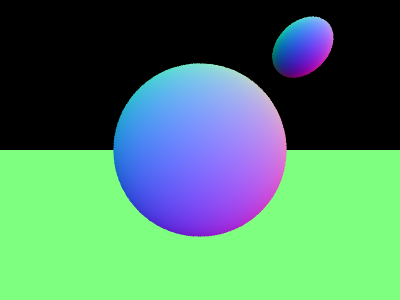
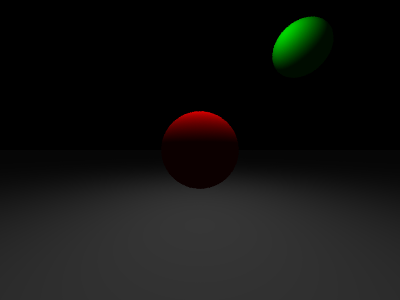
Inclusão de luz difusa

diff --git a/material.py b/material.py
@@ -1,9 +1,12 @@
 import numpy as np
+import utils
+import color as colors
 
 class Material():
-    def __init__(self, color:np.ndarray, diffuse:float, specular:float, shininess:float, debug:bool = False) -> None:
+    def __init__(self, color:np.ndarray, diffuse:float, specular:float, shininess:float, ambient:float = 0.05,  debug:bool = False) -> None:
         self.diffuse = diffuse
         self.specular = specular
+        self.ambient = ambient
         self.shininess = shininess
         self.color = color
         self.debug = debug
@@ -21,7 +24,18 @@ class Material():
             ])
         else:
             # Phong illumination model implementation
-            color:np.ndarray = self.color
+            color:np.ndarray = colors.BLACK
+            viewer_direction:np.ndarray = utils.normalize(ray.origin - hit.point)
+
+            # Ambient
+            color = color + (self.color * self.ambient)
+
+            for light in world.lights:
+                light_intensity, light_dir = light.radiance(hit)
+
+                # Diffuse
+                color = color + (self.color * self.diffuse * light_intensity * max(0, np.dot(hit.normal, light_dir)))
+
             
             # implementation logic..
 

diff --git a/main.py b/main.py
@@ -14,20 +14,20 @@ def main():
     world = World(
         hittables=[
             Hittable(
-                surface=Sphere(np.array([0.0, 0.0, -1.0]), 0.5),
-                material=Material(colors.RED, 0.2, 0.5, 2.0, debug=True)
+                surface=Sphere(np.array([0.0, 0.0, -2.0]), 0.5),
+                material=Material(colors.RED, 0.2, 0.5, 2.0, debug=False)
             ),
             Hittable(
                 surface=Sphere(np.array([2.0, 2.0, -3.0]), 0.5),
-                material=Material(colors.GREEN, 0.2, 0.5, 2.0, debug=True)
+                material=Material(colors.GREEN, 0.1, 0.5, 2.0, debug=False)
             ),
             Hittable(
-                surface=Plane(np.array([0.0, 3.0, 0.0]), np.array([0.0, 1.0, 0.0])),
-                material=Material(colors.WHITE / 2, 0.2, 0.5, 2.0, debug=True)
+                surface=Plane(np.array([0.0, 1.0, 0.0]), np.array([0.0, 1.0, 0.0])),
+                material=Material(np.array([0.7, 0.7, 0.7]), 0.2, 0.5, 2.0, debug=False)
             )
         ],
         lights=[
-            Light(np.array([0.0, 3.0, -1.0]), 2.0)
+            Light(np.array([0.0, 3.0, -2.0]), 30.0)
         ]
     )
 

diff --git a/utils.py b/utils.py
@@ -4,6 +4,7 @@ import random
 
 HIT_TOLERANCE = 1e-6
 
+
 def degrees_to_radians(degrees:float) -> float:
     return degrees * math.pi / 180.0
 
@@ -35,3 +36,17 @@ def sample_square() -> np.ndarray:
         random.uniform(0, 1) - 0.5,
         0.0
     ])
+
+def distance(point_a:np.ndarray, point_b:np.ndarray) -> float:
+    """
+    Returns distnace between point_a and point_b.
+    In other words, the magnitude of the vector point_a - point_b.
+    """
+    return float(np.linalg.norm(point_a - point_b))
+
+def reflect(vector:np.ndarray, ref:np.ndarray) -> np.ndarray:
+    """
+    Returns a vector reflected along given ref
+    """
+    # r = 2(n . l)*n - l
+    return ((2 * np.dot(ref, vector)) * ref) - vector

diff --git a/light.py b/light.py
@@ -1,4 +1,5 @@
 import numpy as np
+import utils
 
 class Light:
     def __init__(self, position:np.ndarray, power:float, shape=None) -> None:
@@ -6,3 +7,9 @@ class Light:
         self.power = power
         self.shape = shape # NOTE: If shape is none, then light is a point light
     
+    def radiance(self, hit):
+        light_dir = utils.normalize(self.position - hit.point)
+        r = utils.distance(hit.point, self.position)
+        light_intensity = self.power / pow(r, 2)
+
+        return (light_intensity,light_dir)

diff --git a/color.py b/color.py
@@ -7,6 +7,6 @@ import numpy as np
 BLACK = np.array([0.0, 0.0, 0.0])
 WHITE = np.array([1.0, 1.0, 1.0])
 RED = np.array([1.0, 0.0, 0.0])
-BLUE = np.array([0.0, 1.0, 0.0])
-GREEN = np.array([0.0, 0.0, 1.0])
+BLUE = np.array([0.0, 0.0, 1.0])
+GREEN = np.array([0.0, 1.0, 0.0])
 
